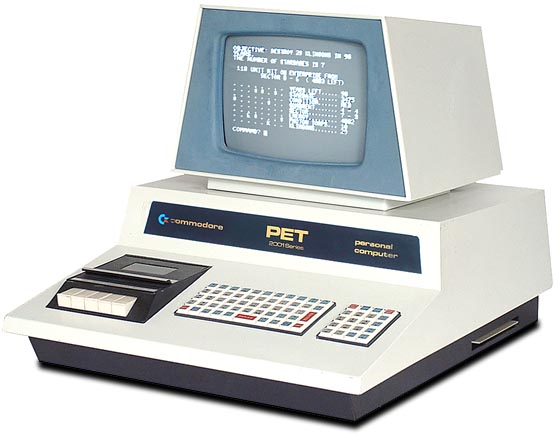
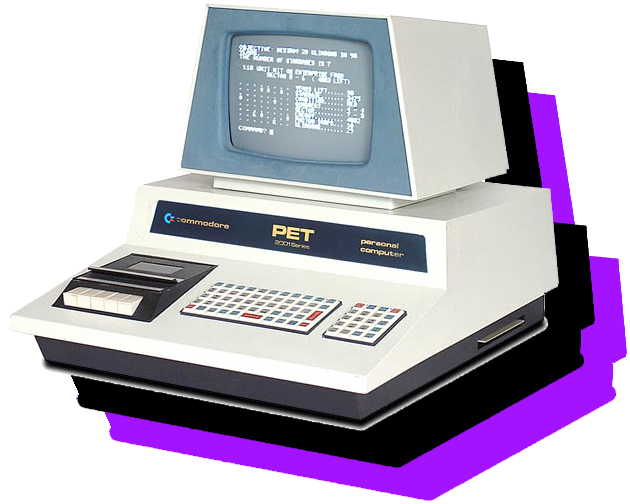
Add shadow effects to images, and print in color

diff --git a/assets/styles/digitalshare.css b/assets/styles/digitalshare.css
@@ -100,3 +100,13 @@ hr + h2 {
 .title {
   font-weight: 700;
 }
+
+@media print {
+  img {
+    -webkit-filter: none;
+    filter: none;
+  }
+  h1, h2 {
+    color: #a313ff;
+  }
+}
